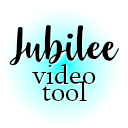
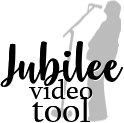
Updated Art
- Updated to final header art

diff --git a/jubilee.py b/jubilee.py
@@ -87,7 +87,7 @@ description_label.grid(row=0, column=0, padx=10, pady=10, sticky='nsew')
 
 # Create a label for the image
 image_label = tk.Label(window, image=image)
-image_label.grid(row=0, column=1, padx=10, pady=10)
+image_label.grid(row=0, column=2, padx=10, pady=10)
 
 # Create a filename entry for the audio button
 audio_filename_entry = tk.StringVar()
@@ -155,7 +155,7 @@ video_filename_entry.grid(row=8, column=0, padx=10, pady=10, sticky='nsew')
 
 # Create the start button
 start_button = tk.Button(window, text="Start Image/Audio Conversion", command=on_start_button_clicked)
-start_button.grid(row=8, column=1, padx=10, pady=10, sticky='nsew')
+start_button.grid(row=8, column=1, padx=10, pady=10, sticky='nsew', columnspan=3)
 
 # Create a text widget for output
 output_text = tk.Text(window)
